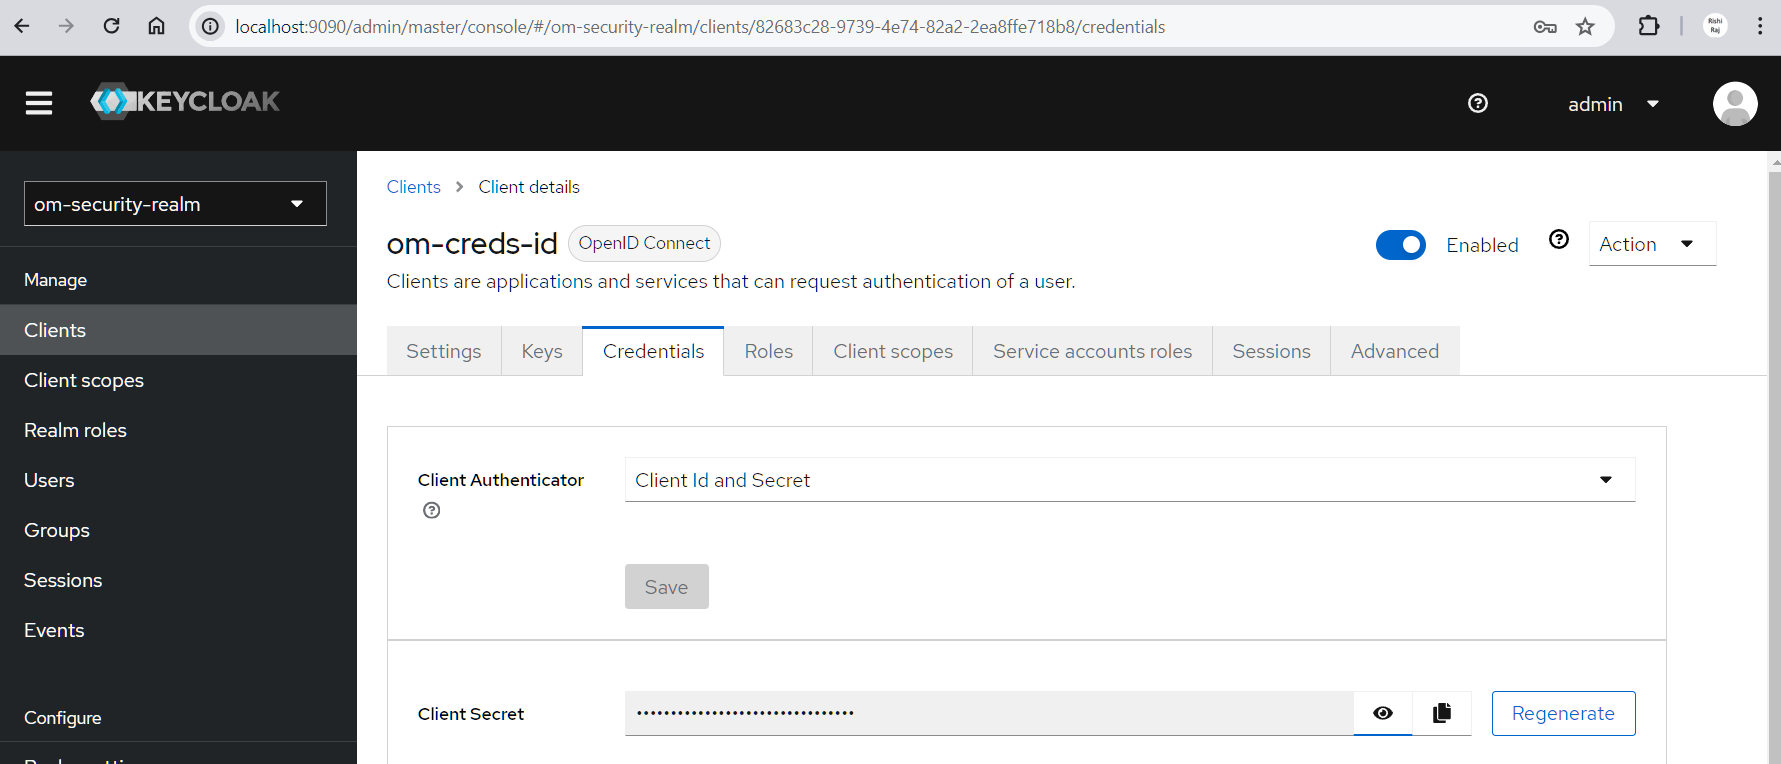
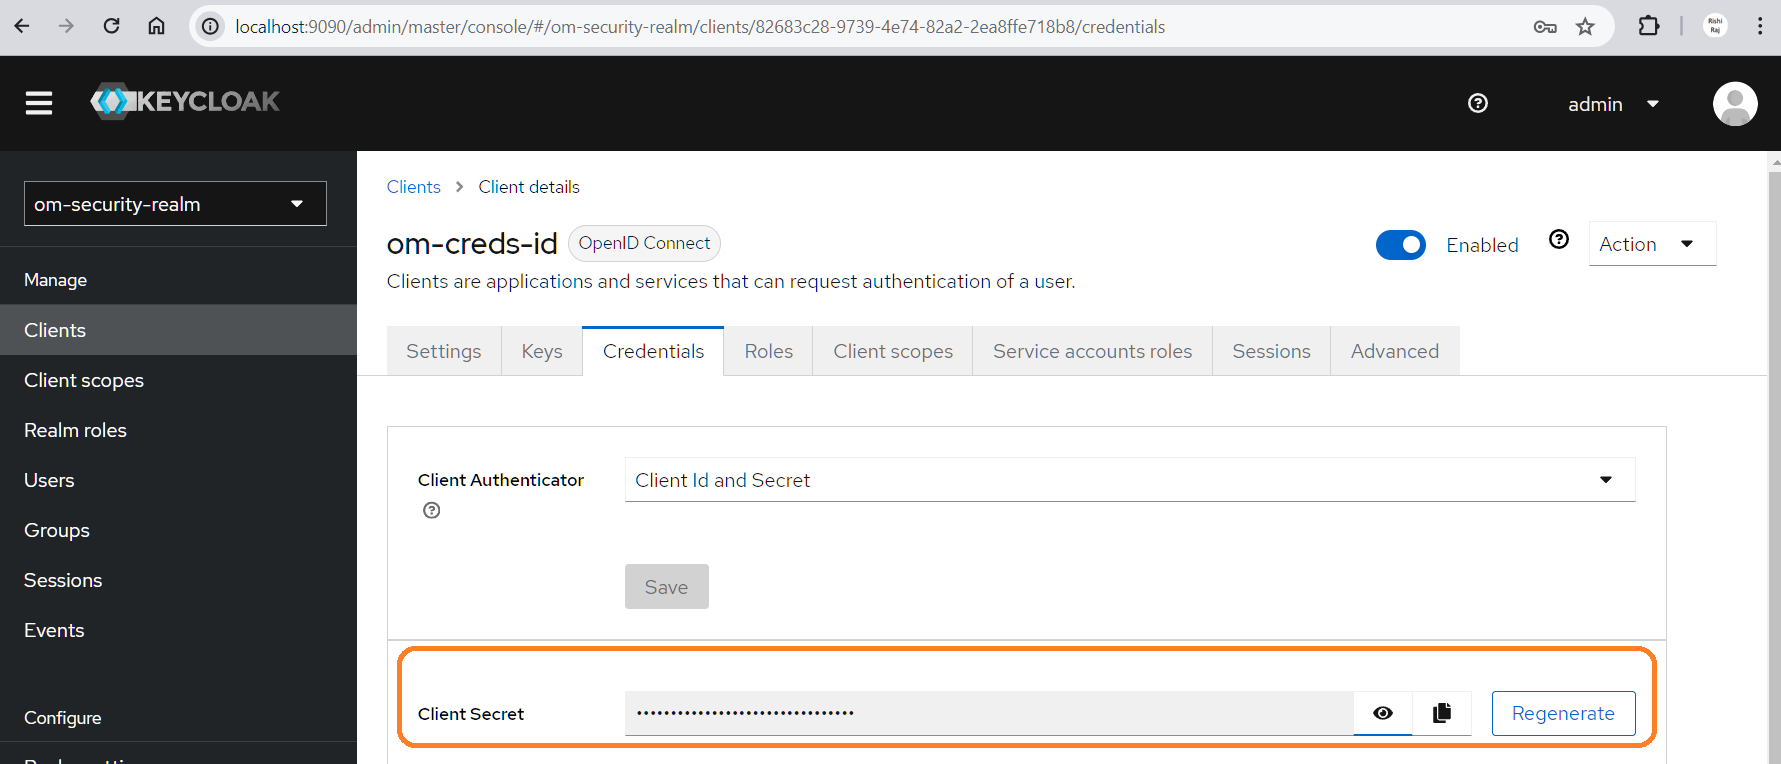
Create README for Gateway service.

Changed region(s): [[0.2162, 0.9634, 0.9264, 0.9935], [0.2162, 0.8429, 0.9264, 0.873]]

diff --git a/gateway/README.md b/gateway/README.md
@@ -1,0 +1,93 @@
+# Gateway Module
+It is the gateway to Order Manager, a distributed app built with Spring Cloud Config and Spring Boot.
+
+## Setup
+- Create a new project with Spring Init. Make sure to add the two dependencies:
+![Spring Init](../assets/gateway/01-spring-init.png)
+
+- Then add the code (Java code has been added, feel free to switch to Kotlin if you prefer!).
+
+### Manual Testing and Operation, along with Keycloak Configuration
+- Now sit back tight and do the dirty engineering on service endpoints, integration and parameter matching.
+
+- Run `docker-compose up -d` out of Product, Order and Inventory services.
+- Start (Run.../Debug...) Product, Order, Inventory and Gateway services with IDE or CLI.
+- Hit Product service over the port of Gateway. You succeed to access the service endpoint:
+![via-gateway-products](../assets/gateway/02-via-gateway-products.png)
+
+- Query the Inventory database with mysql login in Docker CLI to copy or remember one SKU code:
+![03-inventory-state-in-db](../assets/gateway/03-inventory-state-in-db.png)
+
+- Test the inventory service for availability of that SKU twice- for true and for false:
+![04-via-gateway-inventory-false](../assets/gateway/04-via-gateway-inventory-false.png)
+![05-via-gateway-inventory-true](../assets/gateway/05-via-gateway-inventory-true.png)
+
+- Now write (just type in or copy-and-edit or get help from AI assistant) ´docker-compose-yml´ for Keycloak and its database. And, start the containers with `docker-compose up -d`:
+![06-keycloak-docker-compose-run](../assets/gateway/06-keycloak-docker-compose-run.png)
+
+- When the containers have started, visit `http://localhost:9090` in a web browser, login as admin (check creds in docker-compose or secrets file) and create a new realm for your app:
+![07-create-realm-in-keycloak-admin](../assets/gateway/07-create-realm-in-keycloak-admin.png)
+
+- The realm should get created quickly and please you with this:
+![08-realm-creation-success-in-keycloak-admin](../assets/gateway/08-realm-creation-success-in-keycloak-admin.png)
+
+- Create client with client creds ID and capability config:
+![09-create-client-creds-id-in-keycloak-admin](../assets/gateway/09-create-client-creds-id-in-keycloak-admin.png)
+![10-config-capabilities-to-service-accounts-roles](../assets/gateway/10-config-capabilities-to-service-accounts-roles.png)
+
+- Client creation should finish smoothly as well:
+![11-client-creation-success-in-keycloak-admin](../assets/gateway/11-client-creation-success-in-keycloak-admin.png)
+
+- Under credentials of the new client, Client Secret is autopopulated. It may be used as such or may well be regenerated. Either choice is good at this moment:
+![12-view-client-secret-under-credentials](../assets/gateway/12-view-client-secret-under-credentials.png)
+
+- Click and open the link of OpenID Endpoint Config:
+![13-view-OpenID-endpoint-config-url-under-realm-settings](../assets/gateway/13-view-OpenID-endpoint-config-url-under-realm-settings.png)
+- You may see a page similar to the one shown below. Copy ´issuer´ value from the page:
+![14-open-OpenID-endpoint-config-page](../assets/gateway/14-open-OpenID-endpoint-config-page.png)
+
+- Use the issuer value to make the respective registry in `application.properties` of gateway service:
+![15-issuer-value-to-app_props](../assets/gateway/15-issuer-value-to-app_props.png)
+
+- Now try to access Product (or another) service via gateway port. 401 response code must be returned:
+![16-http-401-unauthzd-to-products-in-HttpClient](../assets/gateway/16-http-401-unauthzd-to-products-in-HttpClient.png)
+
+- Check with another HTTP request sender:
+![17-http-401-unauthzd-to-products-in-Postman](../assets/gateway/17-http-401-unauthzd-to-products-in-Postman.png)
+
+- Now, to add authorization, do the following exercise:
+  - In Postman (or a similar GUI tool), under Request > Authorization, go to `Configure New Token > Configuration Options`. There select `Client Credentials` against `Grant Type`.
+  - Then paste into `Access Token URL` the value (the URL) of "token endoint" header which is on OpenID Endpoint Config page:
+![18-token-endpoint-value-from-openid-endpoint-config](../assets/gateway/18-token-endpoint-value-from-openid-endpoint-config.png)
+  - Copy or remember the client creds ID from client settings in Keycload Admin and paste against `Client ID` in Postman dialog:
+![19-client-creds-id-from-client-settings](../assets/gateway/19-client-creds-id-from-client-settings.png)
+
+  - Copy client secret from client credentials (Keycloak Admin) against `Client Secret` in Postman dialog:
+![20-client-secret-from-client-credentials](../assets/gateway/20-client-secret-from-client-credentials.png)
+
+  - Make sure that `Grant Type` is `Client Crendentials`:
+![21-grant-type-client-credentials-in-authz-in-postman](../assets/gateway/21-grant-type-client-credentials-in-authz-in-postman.png)
+
+  - Click on the tempting `Get New Access Token` button... finally:
+![22-get-new-access-token](../assets/gateway/22-get-new-access-token.png)
+
+  - Now the Authz is complete for you. Hurray! Enjoy accessing your favorite services via gateway, now in a secure manner :) :
+![23-authz-complete](../assets/gateway/23-authz-complete.png)
+
+  - And yes, this is a no-explainer. It's obviously obvious to click on the `Use Token` button. Doing so gets you a credit of 300 seconds to get inside on the Mission IM-Possible:
+![24-use-token](../assets/gateway/24-use-token.png)
+
+  - Product service is now secured with gateway and Keycloak:
+![25-via-gateway-products-authorized](../assets/gateway/25-via-gateway-products-authorized.png)
+
+  - Order service is also secured with Keycloak, thanks to gateway for integrating them well:
+![26-via-gateway-orders-authorized](../assets/gateway/26-via-gateway-orders-authorized.png)
+
+## Contact Pointers
+- **LinkedIn:** <https://www.linkedin.com/in/rishirajopenminds>
+- **X:** <https://twitter.com/RishiRajDevOps>
+- **Start Page:** <https://bio.link/rishiraj49de>
+- **GitHub:** <https://github.com/rishiraj88>
+
+## Credits and Gratitude
+I thank all who have mentored, taught and guided me. Also, I appreciate who have supported my work with pair programming etc.
